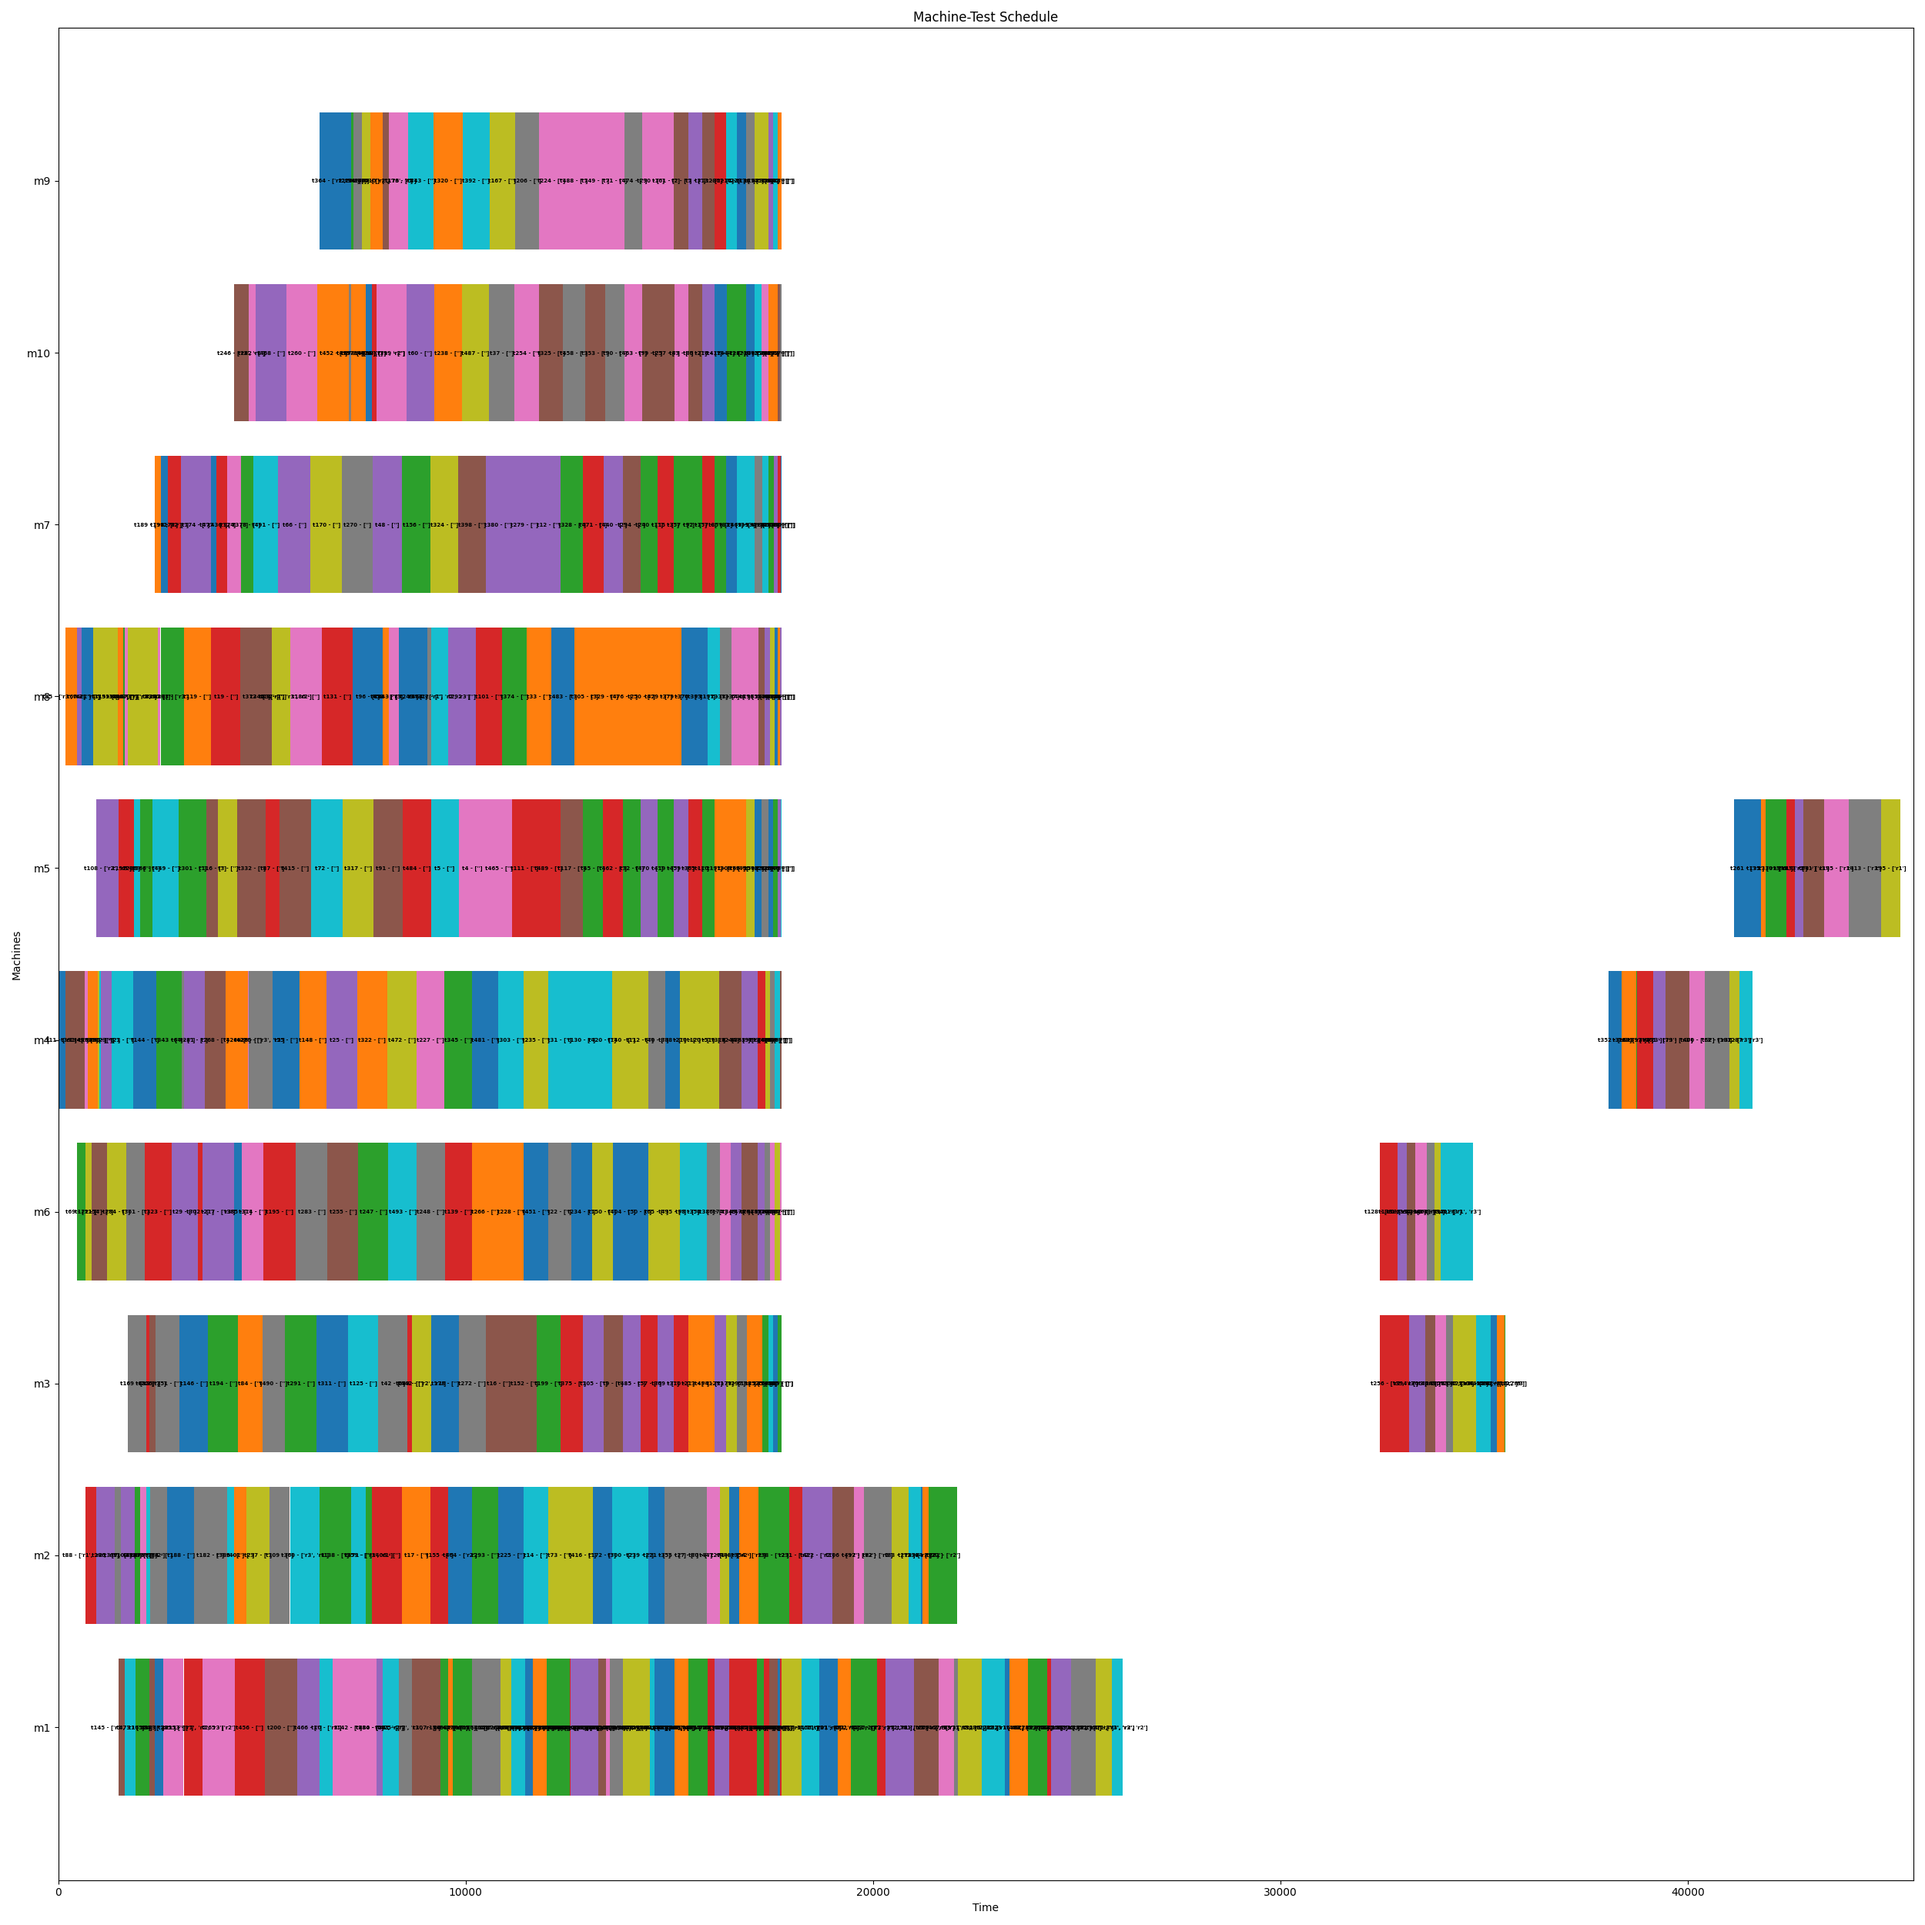
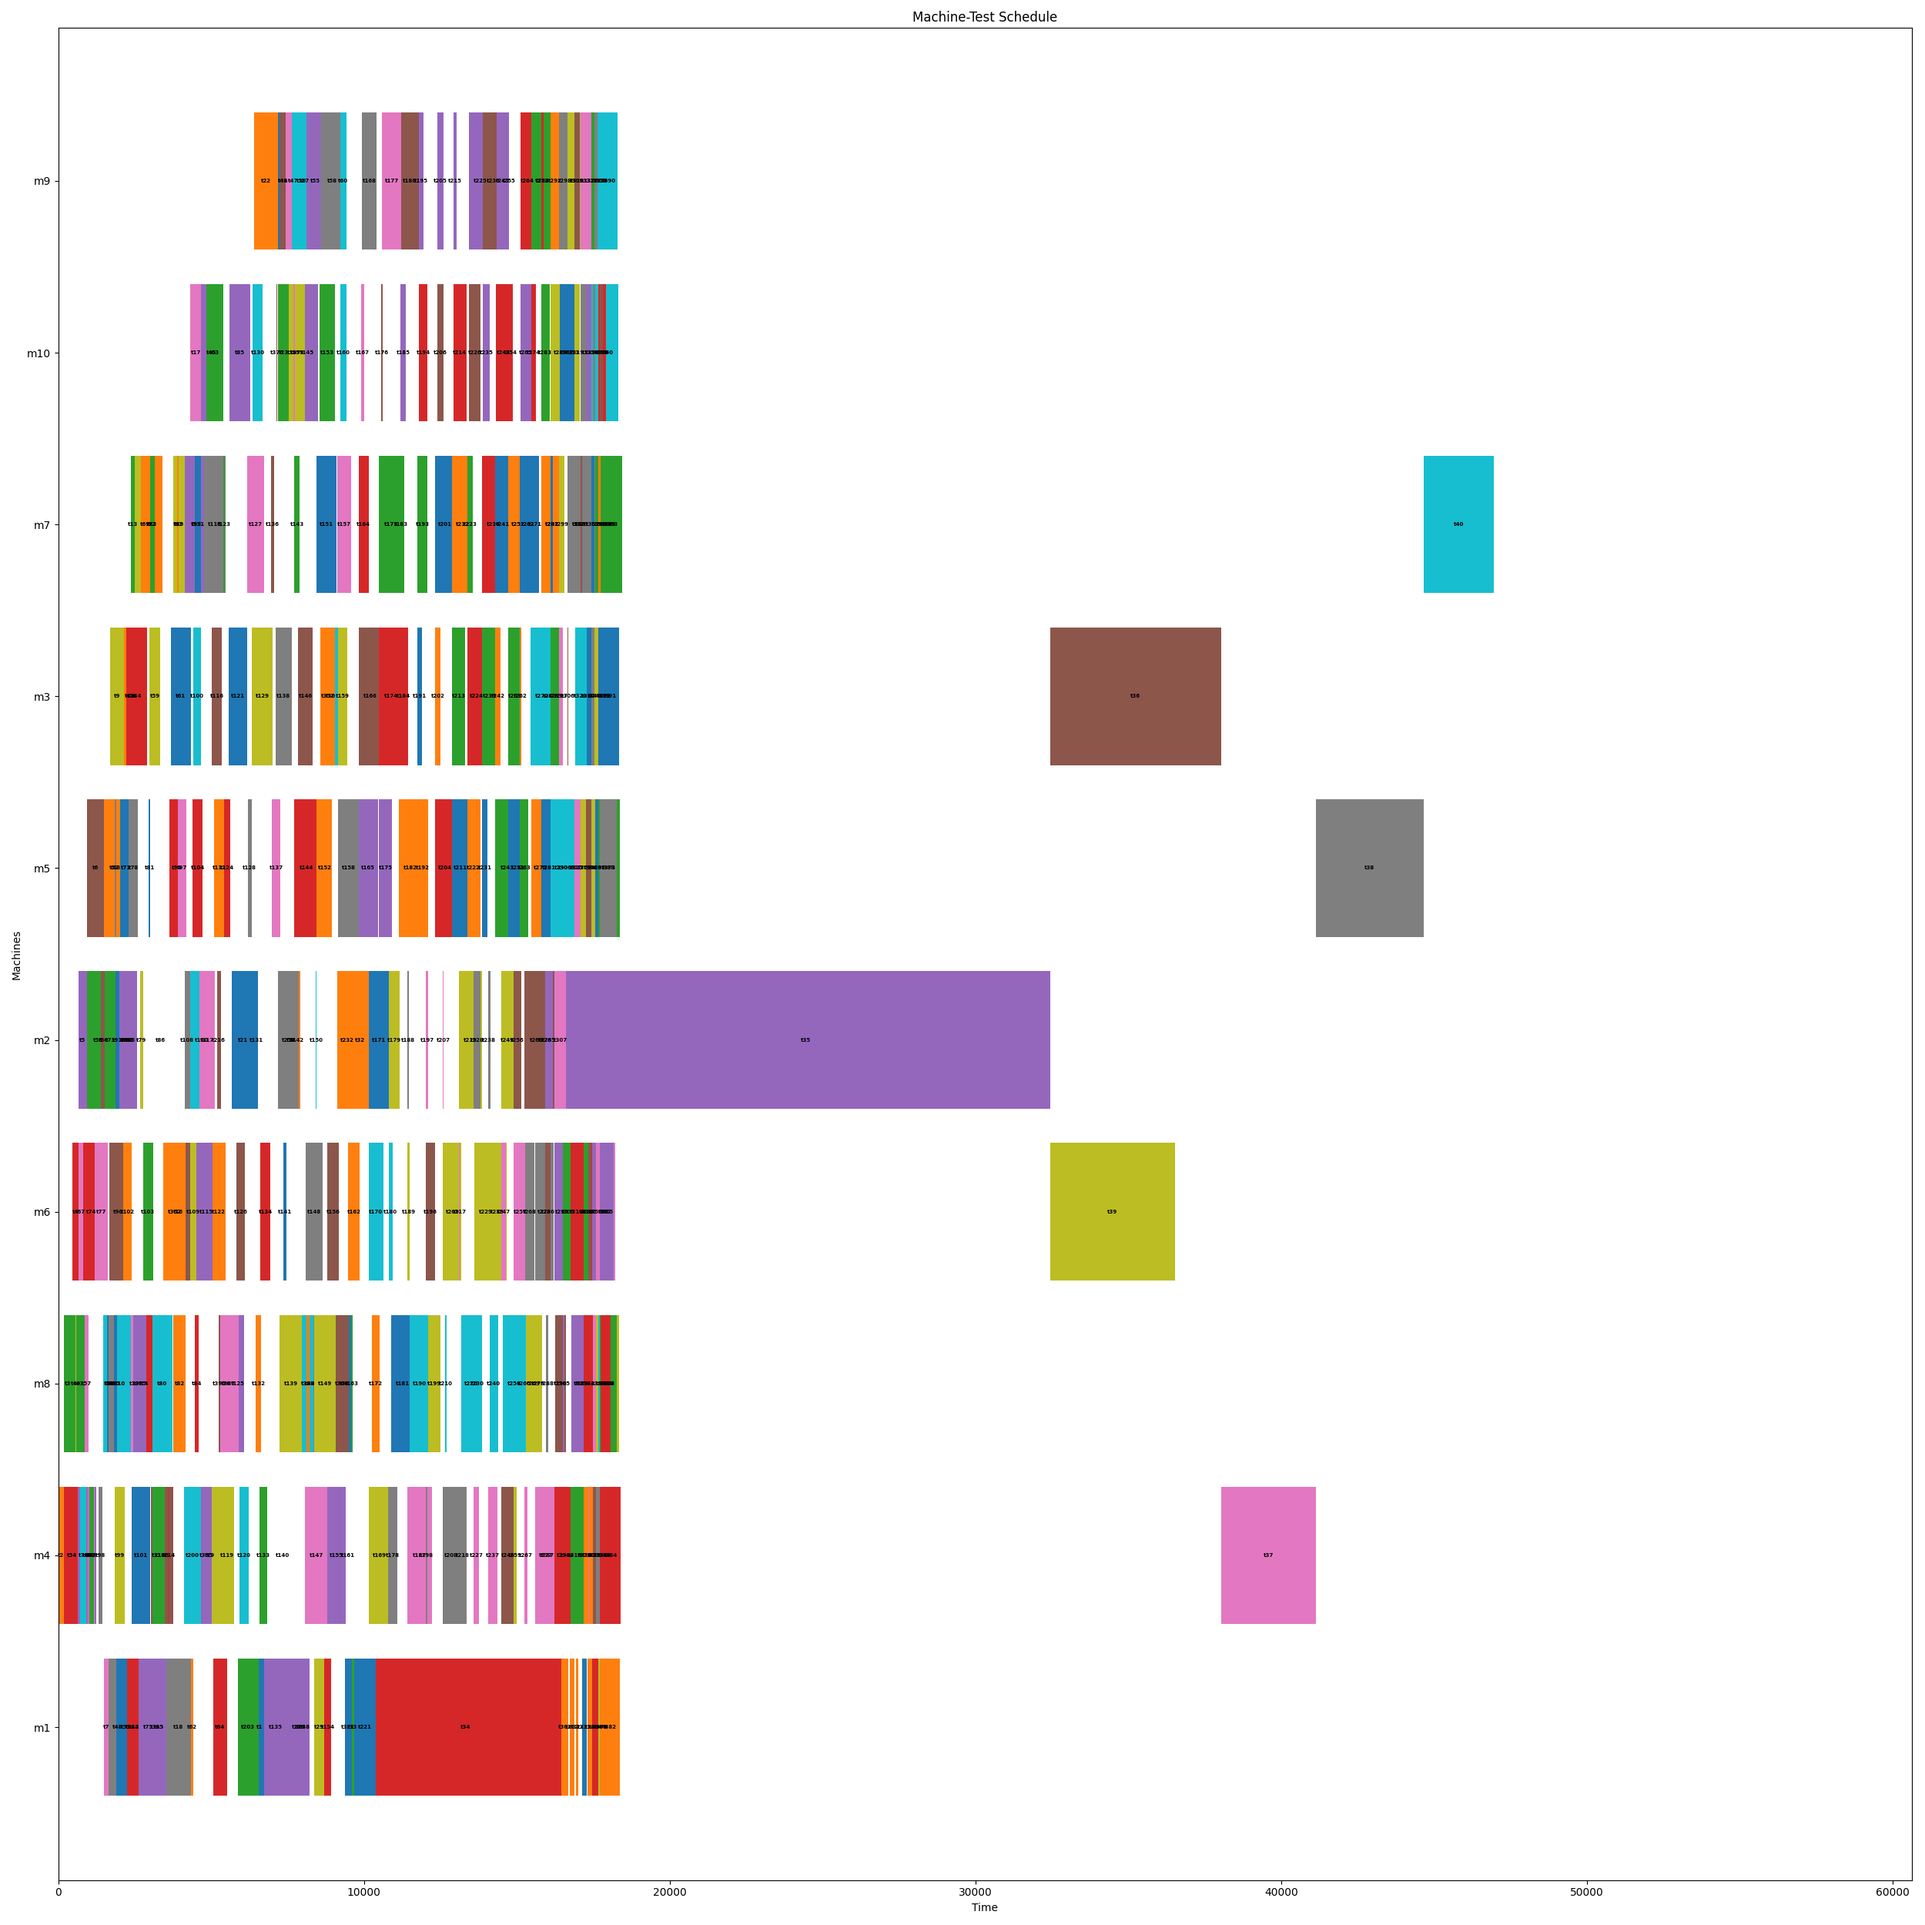
new version added: joins the model for t100 or lower and the heuristics for t500. Iterative convergence to the best solution method: bound and search using the makespan and the hyperparameter nb_non_ordering_max

diff --git a/tests/mainGreedyFinalOldV2.py b/tests/mainGreedyFinalOldV2.py
@@ -126,8 +126,8 @@ class Problem:
                 tests_modelA_grouped.append(test)
             else:
                 tests_modelA_not_grouped.append(test)
-                
-                
+        
+        
         grouped_super_tests = defaultdict(set)
         
         for test in tests_modelA_grouped:
@@ -206,6 +206,11 @@ class Problem:
         
         self.tests_modelA = [i+1 for i in range(self.num_tests) if self.have_resources[i] == True]
         self.num_tests_modelA = len(self.tests_modelA)
+        
+        
+        print("*"*30)
+        print("num tests model A: ", self.num_tests_modelA)
+        print()
         
         ## convert the tests to a dictionary to have the index of the test (to start from 1)
         self.dictionaire_tests_modelA = {self.tests_modelA[i]:i+1  for i in range(self.num_tests_modelA)}
@@ -412,6 +417,11 @@ class Problem:
     
     
     
+    
+    
+    
+    
+    
     def load_modelA(self, new_baseline, solver_name="cbc"):
         
         ## load the model and the solver
@@ -432,7 +442,6 @@ class Problem:
         ##! baseline makespan
         baseline = sum(self.durations_modelA)
         if new_baseline < baseline and new_baseline > 0:
-            
             baseline = new_baseline
         
         instance["num_makespan"] = baseline
@@ -471,6 +480,7 @@ class Problem:
     ##! for the second part of the problem, instead of using the minizinc model, we will use a greedy algorithm
     ##! assigning for each the task the machine that has that has the slot earlier available, it is allowed and obeys the restrictions
     def gready_algorithm_modelB(self):
+        
         
         ## list tests with machine restrictions and not included in model A
         if self.num_tests < 500:
@@ -584,7 +594,7 @@ class Problem:
             for slot in slots_to_add:
                 ### after the assignment, we add the slots back to the heap
                 heapq.heappush(machine_availability, slot)
-
+        
         if self.num_tests < 500:
             
             tasks_assignment_A = {self.tests_modelA[i]: (self.machines_assigned_A[i], self.start_times_A[i]) for i in range(self.num_tests_modelA)}
@@ -640,6 +650,9 @@ class Problem:
         # print()
         
         return self.total_makespan
+    
+    
+    
     
     
     def checker_solution(self):
@@ -770,9 +783,6 @@ if __name__ == "__main__":
     counter_same_makespan = 0
     counter_nb_zero = 0
     
-    counter_t500_larger = 0
-    thereshold_t500_larger = 65 ##! 65 tests that cannot overlap in time
-    
     time_partial = time.time()
     
     ##! iterate over the hyperparameter till the solution is not further improved
@@ -790,8 +800,7 @@ if __name__ == "__main__":
         elif problem.num_tests == 500 and counter_nb_zero == 0:
             nb_max_non_ordering = 2
             counter_nb_zero = 1
-        
-        
+            
         print("-"*30)
         print("Model with nb_max_non_ordering: ", nb_max_non_ordering)
         
@@ -799,19 +808,18 @@ if __name__ == "__main__":
             problem.input_data_modelA_middle_up_to_100()
         else:
             problem.input_data_modelA_middle_500()
-        
+            
         problem.input_data_modelA_end(nb_max_non_ordering=nb_max_non_ordering)
         
+        # problem.input_data_modelA(nb_max_non_ordering=nb_max_non_ordering)
         
-        if problem.num_tests == 500 and problem.num_tests_modelA > thereshold_t500_larger and counter_t500_larger == 0:
-            ##! ensure that the larger t500 tests have at least one solution
-            
-            problem.baseline_solution_modelA()
-            nb_max_non_ordering = 0
-            counter_t500_larger = 1
-        else:
-            problem.load_modelA(total_make_span)
+        print("Nb elements in model A: ", problem.num_tests_modelA)
+        print("Time elapsed: ", round((time_partial - time_start)/60,3), " mins")
+        print()
         
+        problem.load_modelA(total_make_span)
+        
+        time_partial = time.time()
         
         now_makespan = problem.gready_algorithm_modelB()
         
@@ -821,11 +829,6 @@ if __name__ == "__main__":
         problem.create_plot_file()
         
         time_partial = time.time()
-        
-        print("Nb elements in model A: ", problem.num_tests_modelA)
-        print("Time elapsed: ", round((time_partial - time_start)/60,3), " mins")
-        print()
-        
         
         old_make_span = total_make_span
         total_make_span = now_makespan
@@ -840,10 +843,7 @@ if __name__ == "__main__":
         if nb_max_non_ordering > problem.num_tests_modelA or counter_same_makespan == 2:
             break
         
-        if nb_max_non_ordering < 10:
-            nb_max_non_ordering += 2
-        else:
-            nb_max_non_ordering += 1
+        nb_max_non_ordering += 1
         
         
     print("Total time elapsed: ", round((time.time() - time_start)/60,3), " mins")
